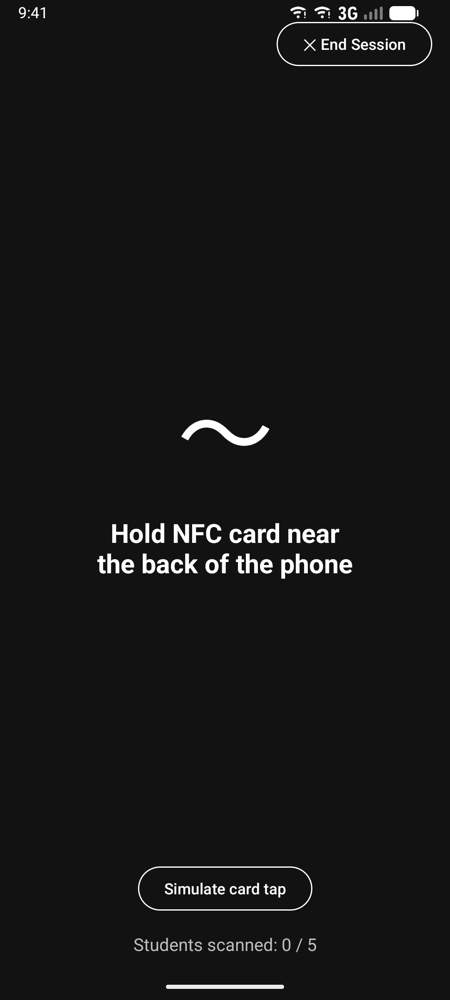
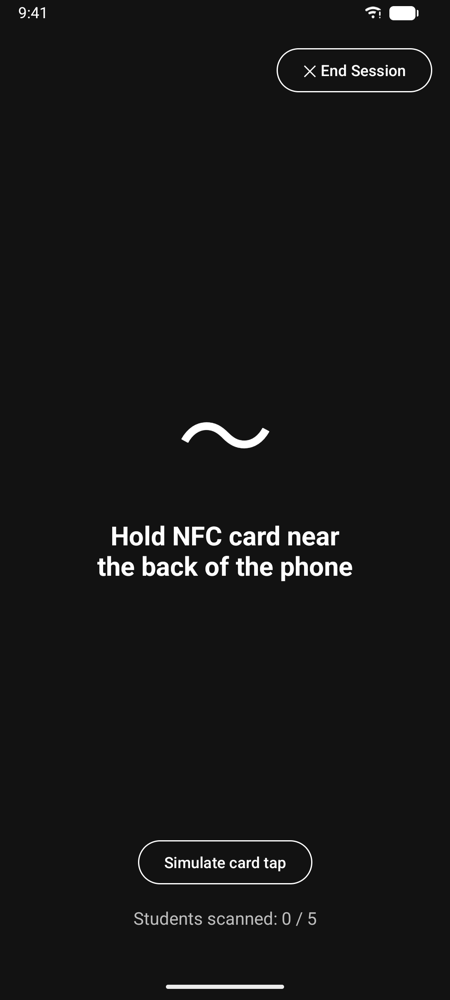
Fix content under the status bar and keep the demo timetable current
- Opt in to edge-to-edge on every Android version and make room for the
  system bars: a red strip behind the status bar on the tab screens,
  padding on the scanner, and keyboard-aware padding on login. Android 15+
  forced edge-to-edge, which put headers under the status bar.
- Rebuild the demo timetable when the app opens on a day with no 50.001
  lesson, so Start Attendance stays available after the install day.
- Retake README screenshots.

diff --git a/app/src/main/java/com/example/attendease/data/local/AppDatabase.java b/app/src/main/java/com/example/attendease/data/local/AppDatabase.java
@@ -13,8 +13,10 @@ import com.example.attendease.util.Constants;
 import com.example.attendease.util.HashUtils;
 
 import java.text.SimpleDateFormat;
+import java.util.ArrayList;
 import java.util.Arrays;
 import java.util.Calendar;
+import java.util.List;
 import java.util.Locale;
 
 //  basically you instantiate a local database in the phone for persistent data
@@ -50,6 +52,12 @@ public abstract class AppDatabase extends RoomDatabase {
                             // re-enter getDatabase() and throw IllegalStateException.
                             seedDatabase(db);
                         }
+
+                        @Override
+                        public void onOpen(@NonNull SupportSQLiteDatabase db) {
+                            super.onOpen(db);
+                            refreshTimetableIfStale(db);
+                        }
                     }).build();
                 }
             }
@@ -71,11 +79,18 @@ public abstract class AppDatabase extends RoomDatabase {
         db.execSQL(sql, args);
     }
 
+    private static List<String> queryStrings(SupportSQLiteDatabase db, String sql, Object... args) {
+        List<String> values = new ArrayList<>();
+        Cursor c = db.query(sql, args);
+        while (c.moveToNext()) values.add(c.getString(0));
+        c.close();
+        return values;
+    }
+
     // ── Seed data ────────────────────────────────────────────────────
 
     private static void seedDatabase(SupportSQLiteDatabase db) {
         String pwdHash = HashUtils.sha256("password");
-        long now = System.currentTimeMillis();
 
         // --- Users ---
         // Fictional demo accounts. Students start with no card linked: the lecturer
@@ -121,21 +136,36 @@ public abstract class AppDatabase extends RoomDatabase {
         for (String sid : partStudents) {
             exec(db, "INSERT INTO enrollments (student_id,module_id) VALUES (?,?)", sid, moduleId3);
         }
-        // --- Lessons: 48 per module (3 per week × 16 weeks) ---
-        // The term is anchored to the install date so the demo always looks current:
+        seedTimetable(db);
+    }
+
+    /**
+     * Demo timetable: 48 lessons per module (3 per week × 16 weeks), plus demo
+     * attendance for lessons already past. Reads the modules and enrollments
+     * back from the database so it can be rebuilt on its own.
+     */
+    private static void seedTimetable(SupportSQLiteDatabase db) {
+        long now = System.currentTimeMillis();
+        List<String> moduleIds = queryStrings(db, "SELECT moduleId FROM modules ORDER BY moduleId");
+        if (moduleIds.size() < 3) return;
+        long moduleId1 = Long.parseLong(moduleIds.get(0));
+        long moduleId2 = Long.parseLong(moduleIds.get(1));
+        long moduleId3 = Long.parseLong(moduleIds.get(2));
+        String enrolledSql = "SELECT student_id FROM enrollments WHERE module_id = ? ORDER BY student_id";
+        // The term is anchored to today so the demo always looks current:
         // week 1 starts 14 Mondays before this week, which puts today in week 15,
         // late enough that the attendance overview shows a spread of colours.
         Calendar today = Calendar.getInstance();
         int todayOffset = (today.get(Calendar.DAY_OF_WEEK) + 5) % 7;  // days since Monday
         Calendar termStart = (Calendar) today.clone();
         termStart.add(Calendar.DAY_OF_YEAR, -todayOffset - 14 * 7);
-        // 50.001 always has a lesson on install day, so a visitor can start
+        // 50.001 always has a lesson today, so a visitor can start
         // an attendance session straight away.
         int[] mod1Days = sortedDays(todayOffset, (todayOffset + 2) % 7, (todayOffset + 4) % 7);
         Object[][] modCfg = {
-            {moduleId1, "10:00", "12:00", "LT1",     mod1Days,             allStudents},
-            {moduleId2, "14:00", "16:00", "LT2",     new int[]{0, 2, 3},  allStudents},  // Mon, Wed, Thu
-            {moduleId3, "09:00", "10:30", "ESC Lab", new int[]{1, 3, 4},  partStudents}  // Tue, Thu, Fri
+            {moduleId1, "10:00", "12:00", "LT1",     mod1Days},
+            {moduleId2, "14:00", "16:00", "LT2",     new int[]{0, 2, 3}},  // Mon, Wed, Thu
+            {moduleId3, "09:00", "10:30", "ESC Lab", new int[]{1, 3, 4}}   // Tue, Thu, Fri
         };
         SimpleDateFormat sdf = new SimpleDateFormat("yyyy-MM-dd", Locale.US);
         String todayStr = sdf.format(today.getTime());
@@ -145,7 +175,7 @@ public abstract class AppDatabase extends RoomDatabase {
             String end     = (String) cfg[2];
             String venue   = (String) cfg[3];
             int[] days     = (int[])  cfg[4];
-            String[] enrolled = (String[]) cfg[5];
+            String[] enrolled = queryStrings(db, enrolledSql, modId).toArray(new String[0]);
             Calendar weekStart = (Calendar) termStart.clone();
             int lessonNum = 1;
             for (int week = 1; week <= 16; week++) {
@@ -171,6 +201,29 @@ public abstract class AppDatabase extends RoomDatabase {
                 }
                 weekStart.add(Calendar.WEEK_OF_YEAR, 1);
             }
+        }
+    }
+
+    /**
+     * The timetable is generated around the day it was seeded, so after a few
+     * days the demo has no lesson to start attendance on. When 50.001 has no
+     * lesson today, rebuild the lessons around today. Accounts, enrollments and
+     * linked cards are kept; demo attendance is regenerated.
+     */
+    private static void refreshTimetableIfStale(SupportSQLiteDatabase db) {
+        String today = new SimpleDateFormat("yyyy-MM-dd", Locale.US).format(Calendar.getInstance().getTime());
+        List<String> todayLessons = queryStrings(db,
+            "SELECT lessonId FROM lessons WHERE date = ? " +
+            "AND module_id = (SELECT MIN(moduleId) FROM modules)", today);
+        if (!todayLessons.isEmpty()) return;
+        db.beginTransaction();
+        try {
+            exec(db, "DELETE FROM attendance");
+            exec(db, "DELETE FROM lessons");
+            seedTimetable(db);
+            db.setTransactionSuccessful();
+        } finally {
+            db.endTransaction();
         }
     }
 

diff --git a/app/src/main/java/com/example/attendease/util/SystemBarUtils.java b/app/src/main/java/com/example/attendease/util/SystemBarUtils.java
@@ -1,0 +1,70 @@
+package com.example.attendease.util;
+
+import android.graphics.Color;
+import android.view.View;
+import android.view.ViewGroup;
+
+import androidx.activity.ComponentActivity;
+import androidx.activity.EdgeToEdge;
+import androidx.activity.SystemBarStyle;
+import androidx.core.graphics.Insets;
+import androidx.core.view.ViewCompat;
+import androidx.core.view.WindowInsetsCompat;
+
+/**
+ * Android 15+ always draws apps behind the status and navigation bars, so the
+ * app opts in on every version and makes room for the bars itself.
+ */
+public final class SystemBarUtils {
+
+    /**
+     * Draws behind the system bars with light status bar icons, since every
+     * screen has a red or dark area at the top. Call before setContentView.
+     */
+    public static void enableEdgeToEdge(ComponentActivity activity) {
+        EdgeToEdge.enable(activity, SystemBarStyle.dark(Color.TRANSPARENT));
+    }
+
+    /** Sizes a view to the status bar height, e.g. a coloured strip behind it. */
+    public static void matchStatusBarHeight(View view) {
+        ViewCompat.setOnApplyWindowInsetsListener(view, (v, windowInsets) -> {
+            Insets bars = windowInsets.getInsets(WindowInsetsCompat.Type.statusBars());
+            ViewGroup.LayoutParams lp = v.getLayoutParams();
+            if (lp.height != bars.top) {
+                lp.height = bars.top;
+                v.setLayoutParams(lp);
+            }
+            return windowInsets;
+        });
+    }
+
+    /** Pads a full-screen view so its content clears both system bars. */
+    public static void padForSystemBars(View view) {
+        int left = view.getPaddingLeft();
+        int top = view.getPaddingTop();
+        int right = view.getPaddingRight();
+        int bottom = view.getPaddingBottom();
+        ViewCompat.setOnApplyWindowInsetsListener(view, (v, windowInsets) -> {
+            Insets bars = windowInsets.getInsets(WindowInsetsCompat.Type.systemBars());
+            v.setPadding(left + bars.left, top + bars.top, right + bars.right, bottom + bars.bottom);
+            return windowInsets;
+        });
+    }
+
+    /**
+     * Pads the bottom of a scrolling screen for the navigation bar or the
+     * keyboard, whichever is taller, so focused fields can scroll into view.
+     */
+    public static void padBottomForKeyboard(View view) {
+        int bottom = view.getPaddingBottom();
+        ViewCompat.setOnApplyWindowInsetsListener(view, (v, windowInsets) -> {
+            int nav = windowInsets.getInsets(WindowInsetsCompat.Type.navigationBars()).bottom;
+            int ime = windowInsets.getInsets(WindowInsetsCompat.Type.ime()).bottom;
+            v.setPadding(v.getPaddingLeft(), v.getPaddingTop(), v.getPaddingRight(),
+                    bottom + Math.max(nav, ime));
+            return windowInsets;
+        });
+    }
+
+    private SystemBarUtils() {}
+}

diff --git a/app/src/main/java/com/example/attendease/ui/auth/LoginActivity.java b/app/src/main/java/com/example/attendease/ui/auth/LoginActivity.java
@@ -17,6 +17,7 @@ import com.example.attendease.R;
 import com.example.attendease.data.local.AppDatabase;
 import com.example.attendease.data.local.User;
 import com.example.attendease.databinding.ActivityLoginBinding;
+import com.example.attendease.util.SystemBarUtils;
 import com.example.attendease.ui.lecturer.LecturerMainActivity;
 import com.example.attendease.ui.student.StudentMainActivity;
 import com.example.attendease.util.Constants;
@@ -32,8 +33,10 @@ public class LoginActivity extends AppCompatActivity {
     @Override
     protected void onCreate(Bundle savedInstanceState) {
         super.onCreate(savedInstanceState);
+        SystemBarUtils.enableEdgeToEdge(this);
         binding = ActivityLoginBinding.inflate(getLayoutInflater());
         setContentView(binding.getRoot());
+        SystemBarUtils.padBottomForKeyboard(binding.getRoot());
 
         // Student is the default selected role
         binding.toggleRole.check(R.id.btnRoleStudent);

diff --git a/app/src/main/java/com/example/attendease/ui/nfc/NfcScanActivity.java b/app/src/main/java/com/example/attendease/ui/nfc/NfcScanActivity.java
@@ -23,6 +23,7 @@ import com.example.attendease.data.local.Attendance;
 import com.example.attendease.data.local.User;
 import com.example.attendease.databinding.ActivityNfcScanBinding;
 import com.example.attendease.util.NfcUtils;
+import com.example.attendease.util.SystemBarUtils;
 import com.google.android.material.dialog.MaterialAlertDialogBuilder;
 
 import java.util.Collections;
@@ -69,8 +70,10 @@ public class NfcScanActivity extends AppCompatActivity {
     @Override
     protected void onCreate(Bundle savedInstanceState) {
         super.onCreate(savedInstanceState);
+        SystemBarUtils.enableEdgeToEdge(this);
         binding = ActivityNfcScanBinding.inflate(getLayoutInflater());
         setContentView(binding.getRoot());
+        SystemBarUtils.padForSystemBars(binding.rootLayout);
 
         lessonId = getIntent().getLongExtra(EXTRA_LESSON_ID, -1L);
         moduleId = getIntent().getLongExtra(EXTRA_MODULE_ID, -1L);

diff --git a/app/src/main/java/com/example/attendease/ui/student/StudentMainActivity.java b/app/src/main/java/com/example/attendease/ui/student/StudentMainActivity.java
@@ -9,6 +9,7 @@ import androidx.navigation.ui.NavigationUI;
 
 import com.example.attendease.R;
 import com.example.attendease.databinding.ActivityStudentMainBinding;
+import com.example.attendease.util.SystemBarUtils;
 
 public class StudentMainActivity extends AppCompatActivity {
 
@@ -17,8 +18,10 @@ public class StudentMainActivity extends AppCompatActivity {
     @Override
     protected void onCreate(Bundle savedInstanceState) {
         super.onCreate(savedInstanceState);
+        SystemBarUtils.enableEdgeToEdge(this);
         binding = ActivityStudentMainBinding.inflate(getLayoutInflater());
         setContentView(binding.getRoot());
+        SystemBarUtils.matchStatusBarHeight(binding.statusBarBackground);
 
         // FragmentContainerView requires finding the NavController via the fragment manager,
         // NOT via Navigation.findNavController(activity, viewId) which crashes with FCView.

diff --git a/app/src/main/java/com/example/attendease/ui/lecturer/LecturerMainActivity.java b/app/src/main/java/com/example/attendease/ui/lecturer/LecturerMainActivity.java
@@ -8,6 +8,7 @@ import androidx.navigation.fragment.NavHostFragment;
 import androidx.navigation.ui.NavigationUI;
 
 import com.example.attendease.databinding.ActivityLecturerMainBinding;
+import com.example.attendease.util.SystemBarUtils;
 
 public class LecturerMainActivity extends AppCompatActivity {
 
@@ -16,8 +17,10 @@ public class LecturerMainActivity extends AppCompatActivity {
     @Override
     protected void onCreate(Bundle savedInstanceState) {
         super.onCreate(savedInstanceState);
+        SystemBarUtils.enableEdgeToEdge(this);
         binding = ActivityLecturerMainBinding.inflate(getLayoutInflater());
         setContentView(binding.getRoot());
+        SystemBarUtils.matchStatusBarHeight(binding.statusBarBackground);
 
         NavHostFragment navHostFragment = (NavHostFragment) getSupportFragmentManager()
                 .findFragmentById(binding.navHostFragment.getId());

diff --git a/app/src/main/java/com/example/attendease/ui/auth/SplashActivity.java b/app/src/main/java/com/example/attendease/ui/auth/SplashActivity.java
@@ -11,6 +11,7 @@ import androidx.appcompat.app.AppCompatActivity;
 
 import com.example.attendease.R;
 import com.example.attendease.databinding.ActivitySplashBinding;
+import com.example.attendease.util.SystemBarUtils;
 import com.example.attendease.ui.lecturer.LecturerMainActivity;
 import com.example.attendease.ui.student.StudentMainActivity;
 import com.example.attendease.util.Constants;
@@ -23,6 +24,7 @@ public class SplashActivity extends AppCompatActivity {
     @Override
     protected void onCreate(Bundle savedInstanceState) {
         super.onCreate(savedInstanceState);
+        SystemBarUtils.enableEdgeToEdge(this);
         ActivitySplashBinding binding = ActivitySplashBinding.inflate(getLayoutInflater());
         setContentView(binding.getRoot());
 

diff --git a/README.md b/README.md
@@ -53,7 +53,7 @@ Open the [Appetize demo](https://appetize.io/app/b_wpwek676k67podfwefczyucynu) a
 | Lecturer | `1000001` (Dr. Alice Tan), `1000002` (Dr. Bob Lim) |
 | Student | `1006001` to `1006005` |
 
-The demo data is generated on first launch around the current date, so the term is always in week 15 and lecturer `1000001` always has a 50.001 lesson today. All names and IDs are fictional.
+The demo timetable is built around the current date, so the term is in week 15 and lecturer `1000001` has a 50.001 lesson today. If you open the app on a later day with no 50.001 lesson, the timetable is rebuilt around that day. Accounts and linked cards are kept, and the demo attendance is regenerated. All names and IDs are fictional.
 
 ### Try NFC attendance with your own card
 
